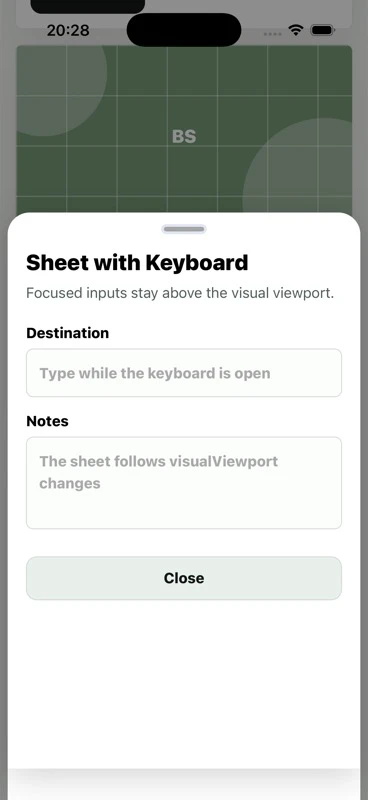
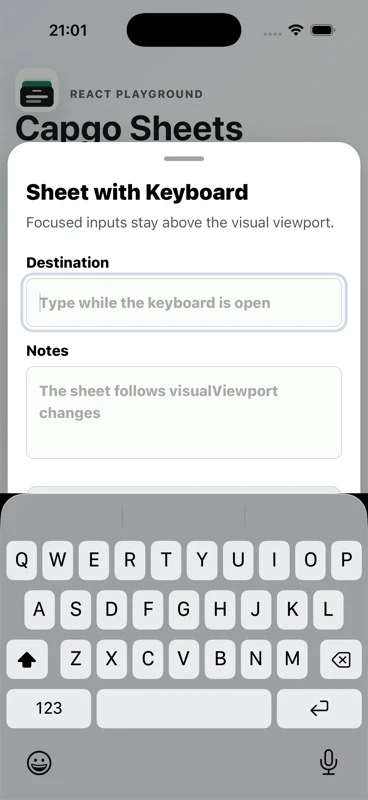
add simulator proof for each issue report

diff --git a/src/core/sheet-controller.ts b/src/core/sheet-controller.ts
@@ -597,6 +597,7 @@ export class SheetController {
     this.previousFocus = this.root.ownerDocument.activeElement;
     this.presented = true;
     this.activeDetent = clamp(options.detent ?? this.resolveInitialDetent(), 1, this.detentOffsetsPx.length - 1);
+    this.updateDetentState();
     this.updateDomState(true);
     this.lockPage();
     this.applyInert();
@@ -622,6 +623,7 @@ export class SheetController {
     const previous = this.activeDetent;
     this.presented = false;
     this.activeDetent = 0;
+    this.updateDetentState();
     this.setStatus('exiting');
     dispatch(this.root, 'cap-sheet-dismiss', this.getTravelEvent());
     await this.animateTo(this.detentOffsetsPx[0] || this.hiddenOffsetPx, {
@@ -663,6 +665,7 @@ export class SheetController {
 
     const previous = this.activeDetent;
     this.activeDetent = target;
+    this.updateDetentState();
     this.setStatus('settling');
     await this.animateTo(this.detentOffsetsPx[target] || 0, {
       ...(this.options.steppingAnimationSettings || {}),
@@ -1250,6 +1253,13 @@ export class SheetController {
   private emitActiveDetentChange(activeDetent: number, previousActiveDetent: number): void {
     const detail: SheetActiveDetentChangeEvent = { activeDetent, previousActiveDetent };
     dispatch(this.root, 'cap-sheet-active-detent-change', detail);
+  }
+
+  private updateDetentState(): void {
+    const activeDetent = String(this.activeDetent);
+    this.root.dataset.activeDetent = activeDetent;
+    if (this.parts.view) this.parts.view.dataset.activeDetent = activeDetent;
+    if (this.parts.content) this.parts.content.dataset.activeDetent = activeDetent;
   }
 
   private registerStack(): void {

diff --git a/examples/shared/usecase-gallery.css b/examples/shared/usecase-gallery.css
@@ -831,7 +831,7 @@ cap-sheet-content.demo-sheet--persistent {
 
 cap-sheet-content.demo-sheet--detached {
   width: min(calc(100% - 2rem), 26.25rem);
-  height: min(100%, 32.5rem);
+  height: min(calc(100% - 2rem), 32.5rem);
   margin-block-end: 1rem;
   border-radius: 1.8rem;
   padding: 0 1.5rem 1.45rem;
@@ -981,6 +981,10 @@ cap-sheet-content.demo-sheet--persistent {
   border-radius: 1.5rem 1.5rem 0 0;
   padding: 0 1rem 1rem;
   overflow: hidden;
+}
+
+cap-sheet-content.demo-sheet--persistent[data-active-detent='2'] {
+  padding-block-start: calc(1rem + env(safe-area-inset-top, 0em));
 }
 
 cap-sheet-content.demo-sheet--top {
@@ -1441,7 +1445,7 @@ cap-sheet-content.demo-sheet--page {
   height: 100%;
   max-height: 100%;
   border-radius: 0;
-  padding-block-start: 1em;
+  padding-block-start: calc(1em + env(safe-area-inset-top, 0em));
 }
 
 cap-sheet-content.demo-sheet--right-page {